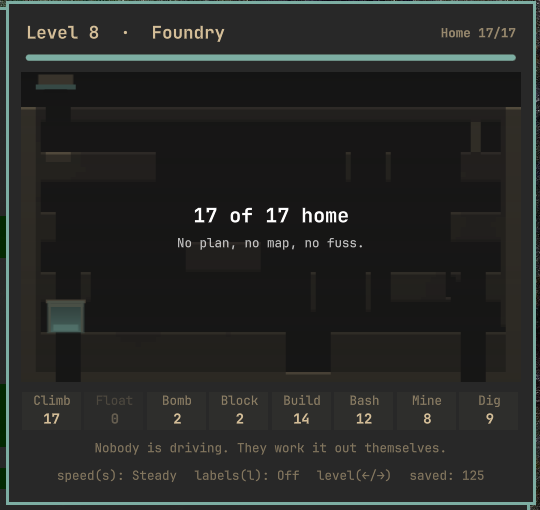
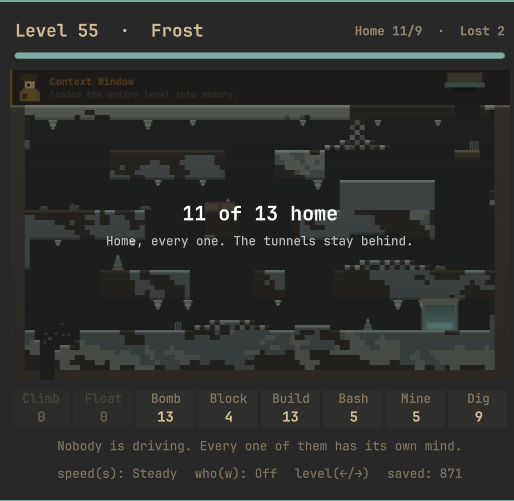
New screenshots, taken from the plugin actually running
The session is unlocked, so these are real captures of the bar widget rather
than anything reconstructed — first time this has been possible. Every image in
the README was still from the version called Lemmings, with the old keybinding
hints and a colour scheme two renames ago.

  preview.png              level 263, a flame vent going off mid-corridor with
                           the blood still in the air, Web Crawler on the board,
                           two home and one lost
  screenshot-floaters.png  the same level a few seconds earlier, three umbrellas
                           coming down at once
  screenshot-complete.png  level 55 on the result screen, eleven of thirteen

Frames picked by scanning 400 levels headlessly for the busiest moment — most
agents visible, most of them mid-action, spread over the most floors — then
setting that level, capturing a burst, and choosing from a contact sheet. Level
263 came out top of that ranking and it earned it.

Also confirmed by running it: the whole thing works in the bar. Agents draw on
every level, the special's card sits in the sky, the toolbar counts down, and
the footer reads as intended.

diff --git a/README.md b/README.md
@@ -272,7 +272,7 @@ everything else.
 
 ## Levels
 
-![All of them home](screenshot-complete.png)
+![Eleven of thirteen home](screenshot-complete.png)
 
 Levels are a pure function of their number — level 42 always generates the
 same level, with the same agents in the same order — so `←` and `→` walk a
